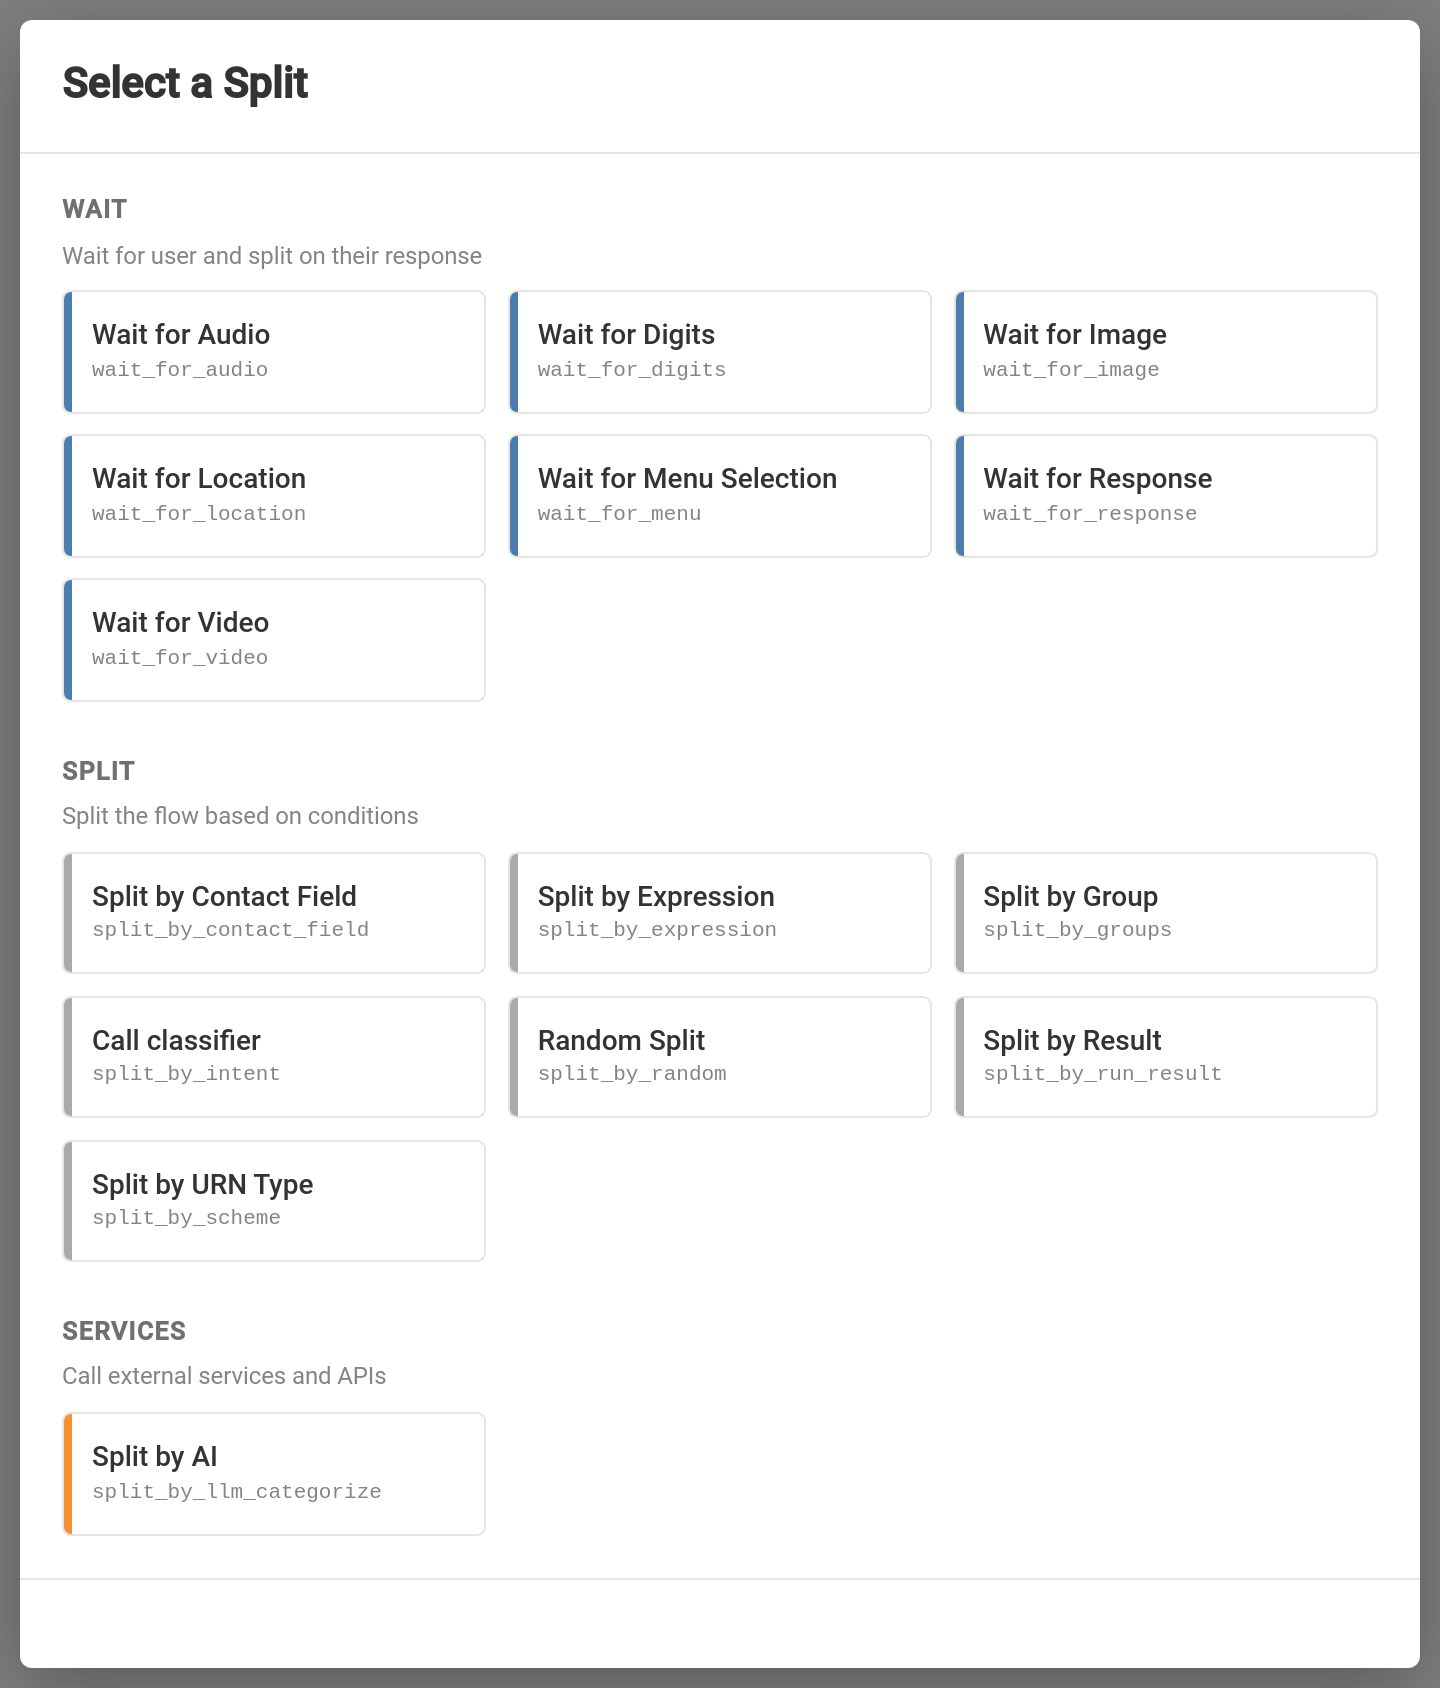
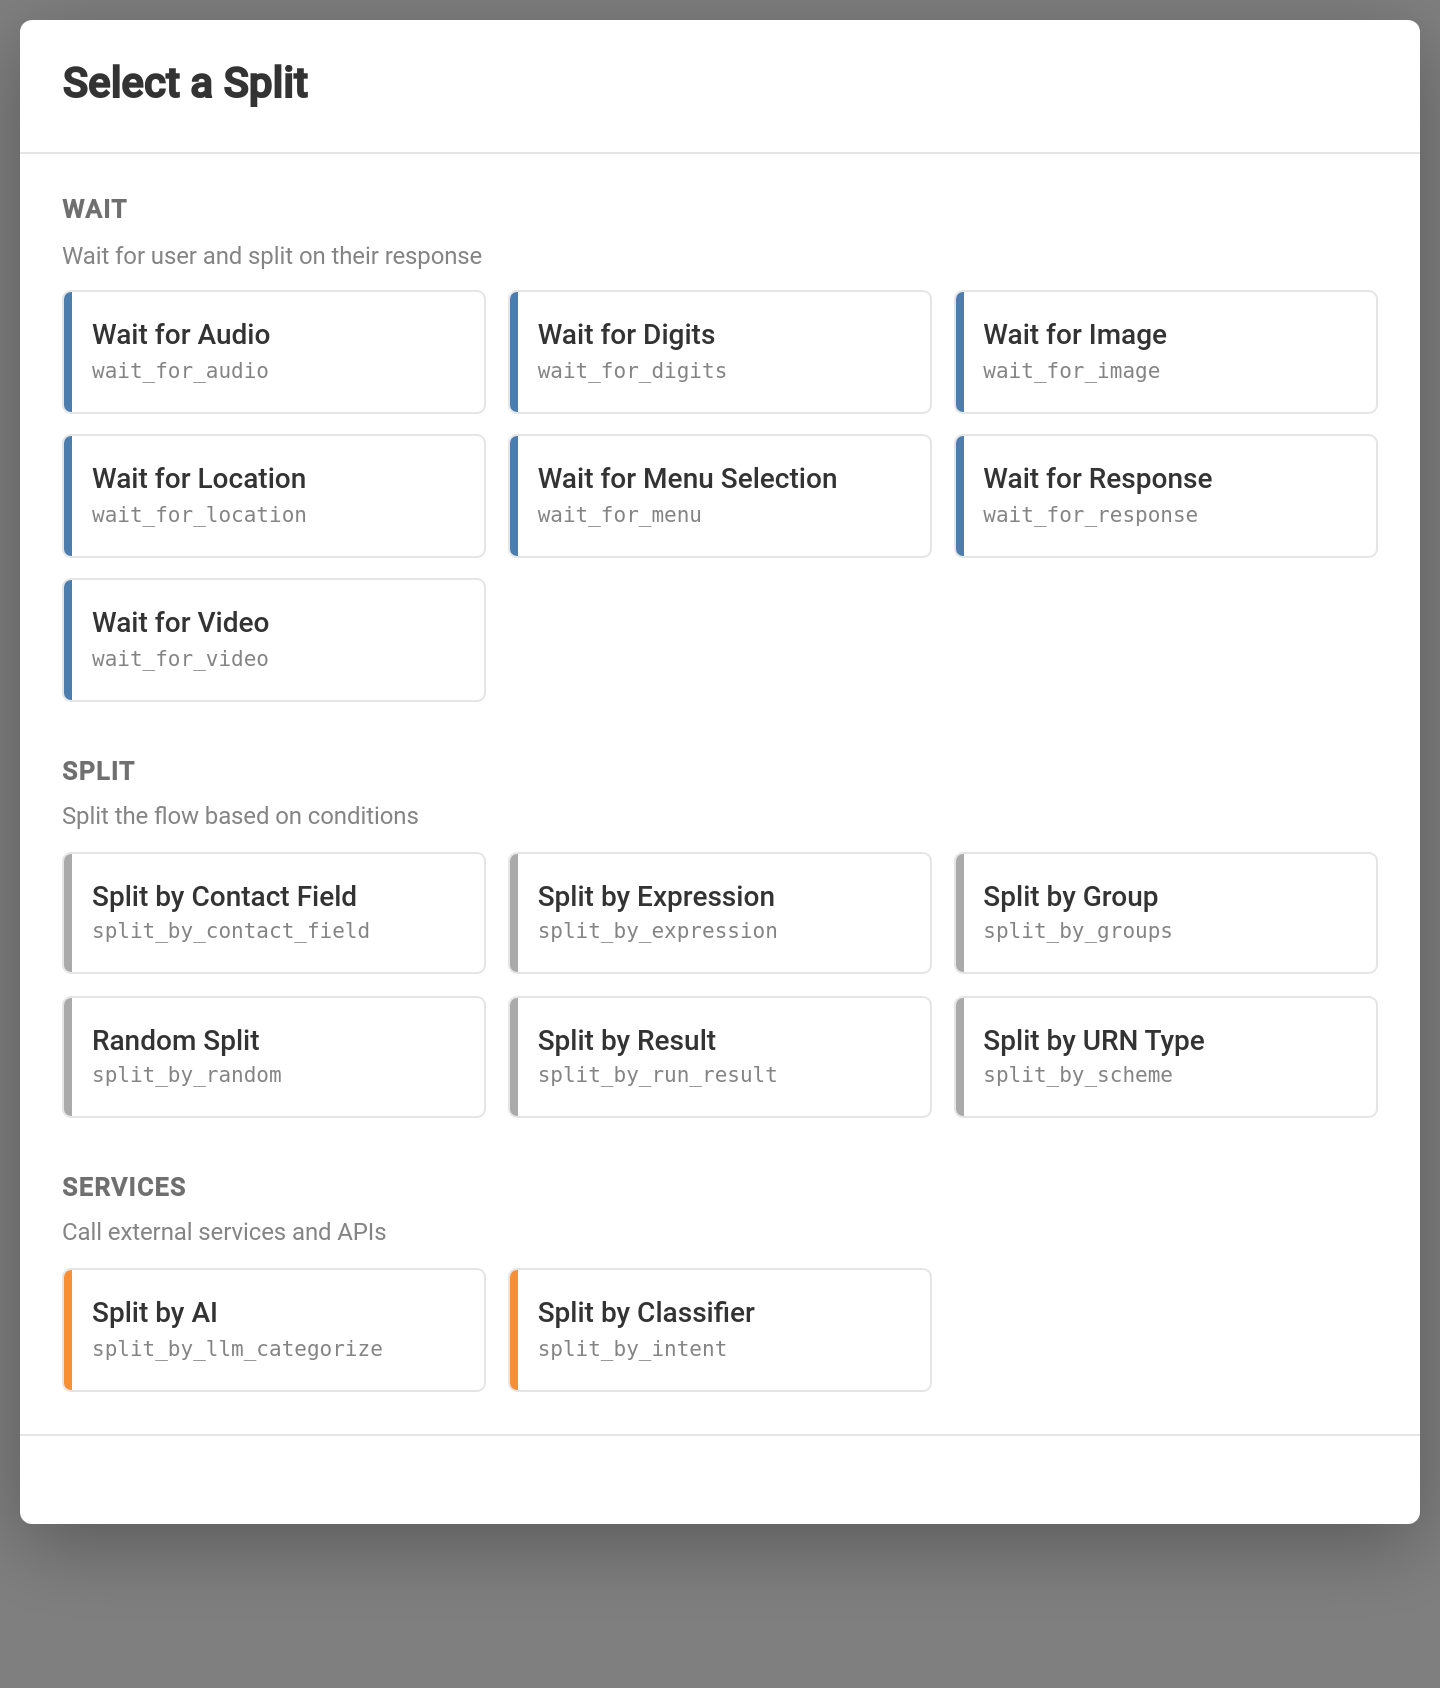
Update split_by_intent name

diff --git a/src/flow/config.ts b/src/flow/config.ts
@@ -34,9 +34,9 @@ import { split_by_subflow } from './nodes/split_by_subflow';
 import { split_by_ticket } from './nodes/split_by_ticket';
 import { split_by_webhook } from './nodes/split_by_webhook';
 import { split_by_resthook } from './nodes/split_by_resthook';
+import { split_by_intent } from './nodes/split_by_intent';
 import { split_by_llm } from './nodes/split_by_llm';
 import { split_by_llm_categorize } from './nodes/split_by_llm_categorize';
-import { split_by_intent } from './nodes/split_by_intent';
 import { wait_for_audio } from './nodes/wait_for_audio';
 import { wait_for_digits } from './nodes/wait_for_digits';
 import { wait_for_image } from './nodes/wait_for_image';
@@ -72,11 +72,9 @@ export const NODE_CONFIG: {
   [key: string]: NodeConfig;
 } = {
   execute_actions,
-
   split_by_contact_field,
   split_by_expression,
   split_by_groups,
-  split_by_intent,
   split_by_llm,
   split_by_llm_categorize,
   split_by_random,
@@ -86,6 +84,7 @@ export const NODE_CONFIG: {
   split_by_ticket,
   split_by_webhook,
   split_by_resthook,
+  split_by_intent,
   wait_for_audio,
   wait_for_digits,
   wait_for_image,

diff --git a/src/flow/nodes/split_by_intent.ts b/src/flow/nodes/split_by_intent.ts
@@ -1,4 +1,4 @@
-import { FormData, NodeConfig, SPLIT_GROUPS } from '../types';
+import { ACTION_GROUPS, FormData, NodeConfig } from '../types';
 import { CallClassifier, Node } from '../../store/flow-definition';
 import { generateUUID, createRulesRouter } from '../../utils';
 import { html } from 'lit';
@@ -107,8 +107,8 @@ const createRuleItemChangeHandler = () => {
 
 export const split_by_intent: NodeConfig = {
   type: 'split_by_intent',
-  name: 'Call classifier',
-  group: SPLIT_GROUPS.split,
+  name: 'Split by Classifier',
+  group: ACTION_GROUPS.services,
   dialogSize: 'large',
   form: {
     classifier: {
